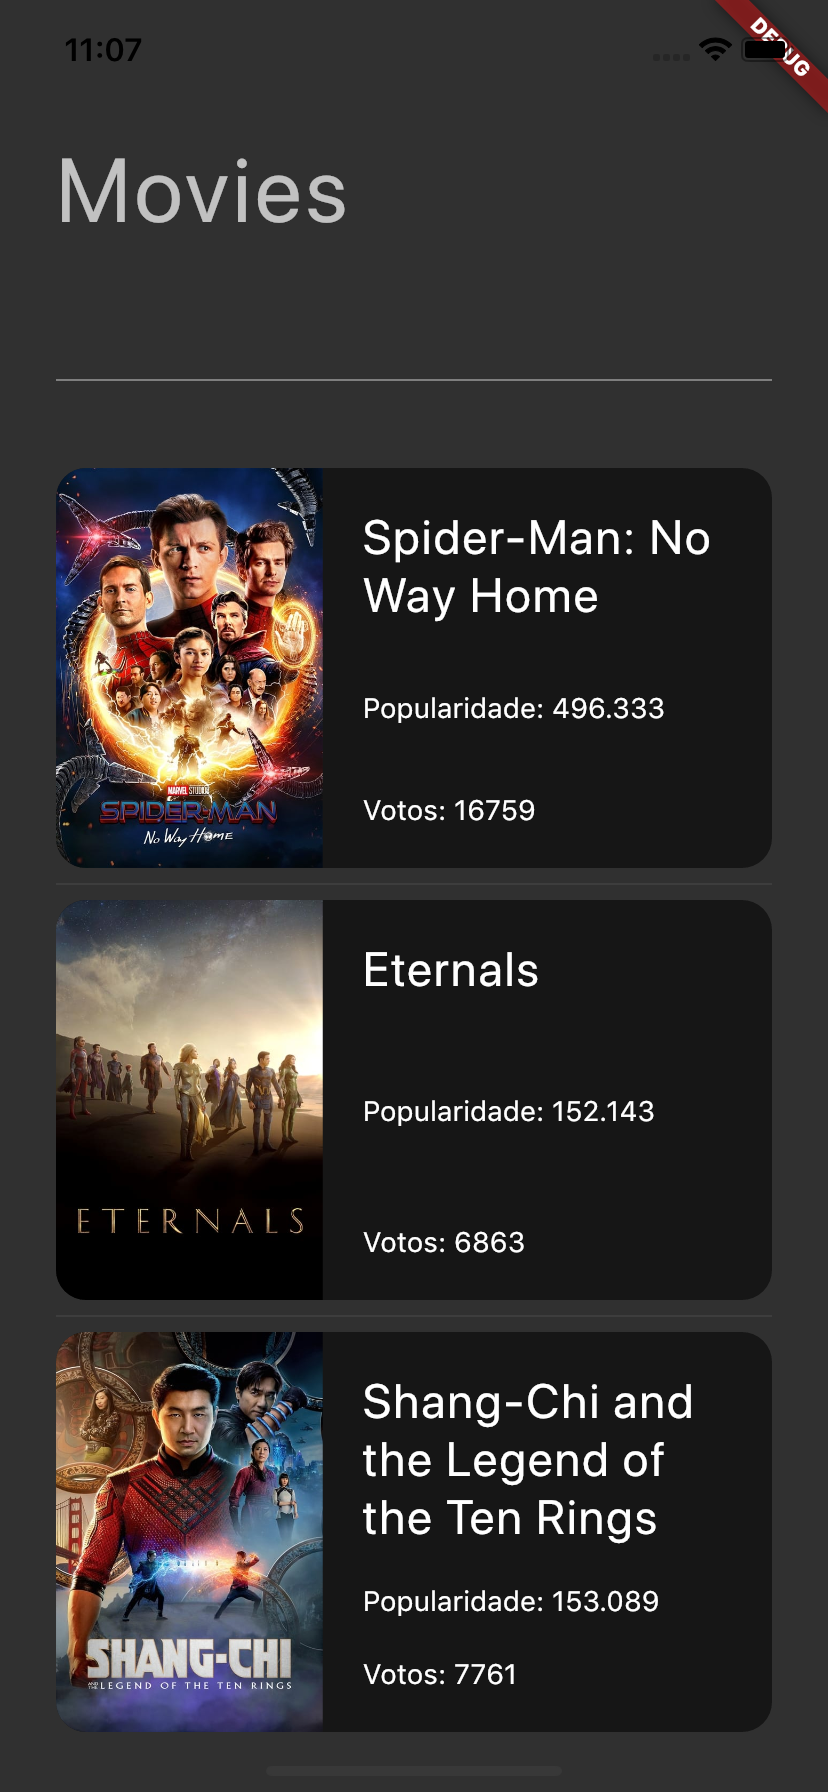
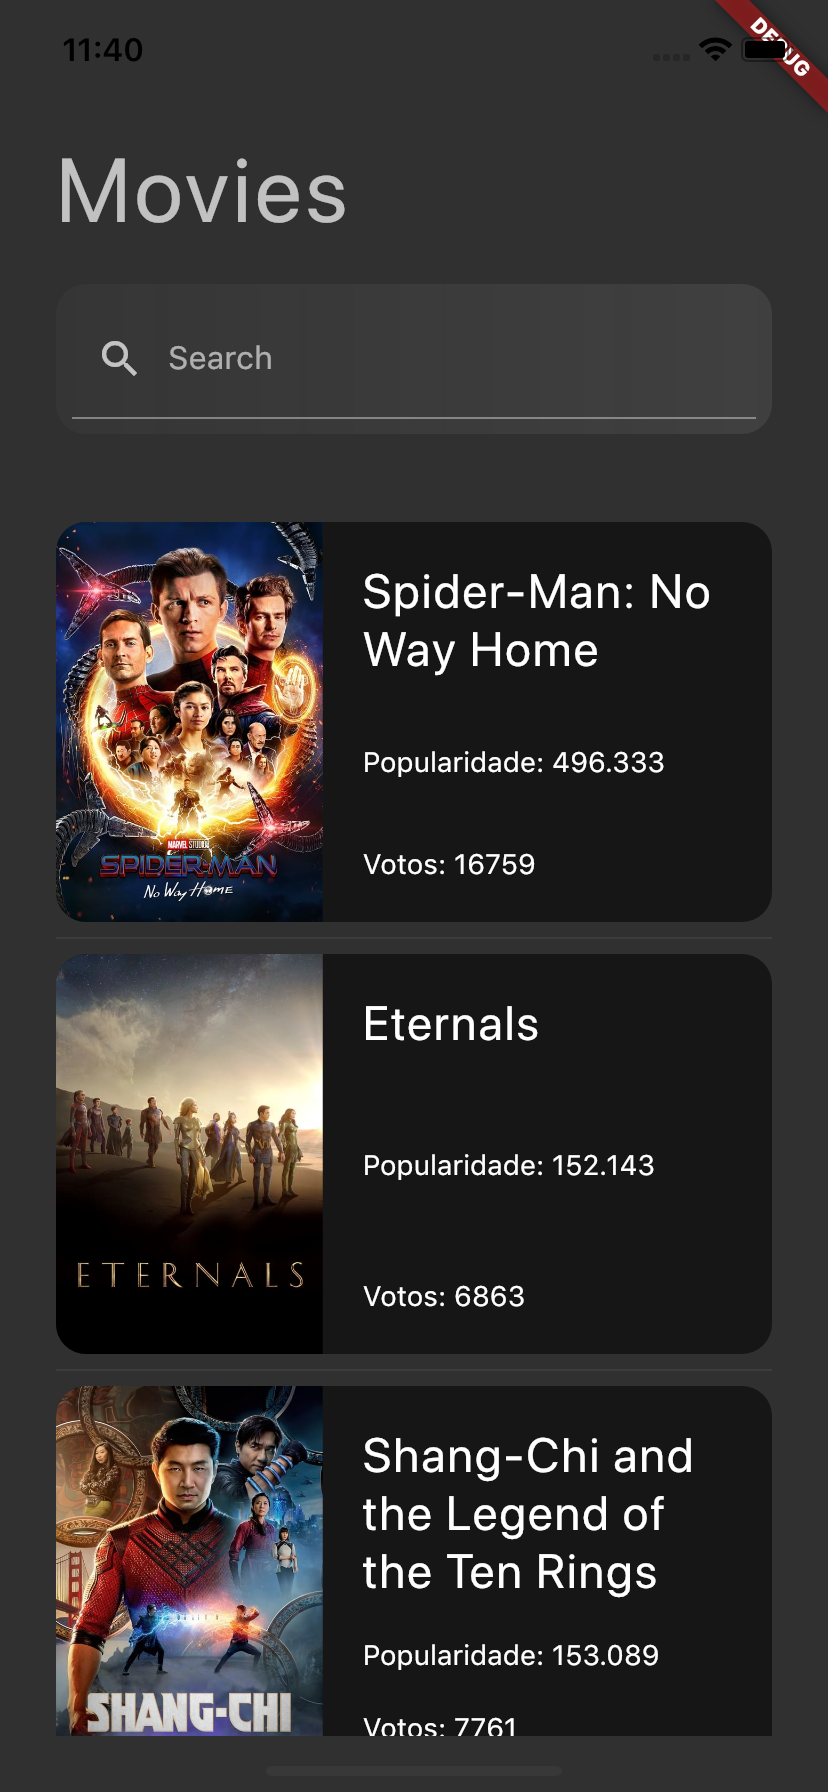
Incluindo Shared Preference e um Padrão Decorator

diff --git a/lib/decorators/moviesRepositoryCachedDecorator.dart b/lib/decorators/moviesRepositoryCachedDecorator.dart
@@ -1,19 +1,38 @@
+import 'dart:convert';
+
 import 'package:moviedbapp/models/movies_model.dart';
 import 'package:moviedbapp/repositories/movies_repository.dart';
 import 'package:moviedbapp/decorators/moviesRepositoryDecorator.dart';
+import 'package:shared_preferences/shared_preferences.dart';
 
 class MoviesRespositoryCachedDecorator extends MoviesRespositoryDecorator {
+  final String _key = 'movies_cache';
+
   MoviesRespositoryCachedDecorator(MoviesRepository movieRepository)
       : super(movieRepository);
 
   @override
   Future<Movies> getMovies() async {
-    throw await super.getMovies();
+    try {
+      Movies movies = await super.getMovies();
+      _saveInCache(movies);
+      return movies;
+    } catch (e) {
+      print(e);
+      return await _getInCache();
+    }
   }
 
-  _saveInCache(Movies movies) {}
+  _saveInCache(Movies movies) async {
+    var prefs = await SharedPreferences.getInstance();
+    prefs.setString(_key, jsonEncode(movies.toJson()));
+  }
 
-  Movies _getInCache() {
-    return;
+  Future<Movies> _getInCache() async {
+    var prefs = await SharedPreferences.getInstance();
+    var moviesMap = jsonDecode(prefs.getString(_key)!);
+    print('Recuperou do Shared Preferrence');
+    print('$moviesMap');
+    return Movies.fromJson(moviesMap);
   }
 }

diff --git a/lib/widgets/searchTextFieldWidget.dart b/lib/widgets/searchTextFieldWidget.dart
@@ -26,18 +26,16 @@ class SearchTextFieldWidget extends StatelessWidget {
       ),
       child: Row(
         children: [
-          Expanded(
-            child: TextField(
-              onChanged: _controller.onChanged,
-              decoration: const InputDecoration(
-                label: Text('Search'),
-                prefixIcon: Icon(Icons.search),
-                fillColor: Colors.white30,
-                focusColor: Colors.white30,
-                hoverColor: Colors.white30,
-              ),
-              cursorColor: Colors.white30,
+          TextField(
+            onChanged: _controller.onChanged,
+            decoration: const InputDecoration(
+              label: Text('Search'),
+              prefixIcon: Icon(Icons.search),
+              fillColor: Colors.white30,
+              focusColor: Colors.white30,
+              hoverColor: Colors.white30,
             ),
+            cursorColor: Colors.white30,
           ),
         ],
       ),

diff --git a/lib/pages/homePage.dart b/lib/pages/homePage.dart
@@ -19,7 +19,9 @@ class HomePage extends StatefulWidget {
 class _HomePageState extends State<HomePage> {
   final MovieController _controller = MovieController(
     MoviesRespositoryCachedDecorator(
-      MoviesRepositoryImpl(DioServiceImpl()),
+      MoviesRepositoryImpl(
+        DioServiceImpl(),
+      ),
     ),
   );
 

diff --git a/lib/decorators/moviesRepositoryDecorator.dart b/lib/decorators/moviesRepositoryDecorator.dart
@@ -8,6 +8,6 @@ class MoviesRespositoryDecorator implements MoviesRepository {
 
   @override
   Future<Movies> getMovies() async {
-    throw await _movieRepository.getMovies();
+    return await _movieRepository.getMovies();
   }
 }
